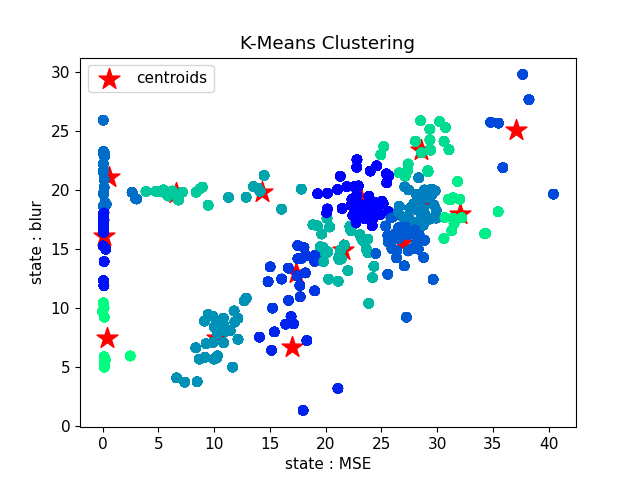
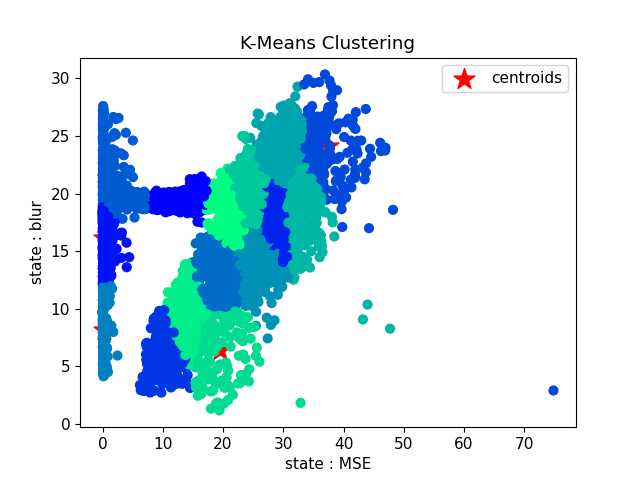
fix : clustering with all frames

diff --git a/enviroment.py b/enviroment.py
@@ -10,7 +10,7 @@ import math
 import numpy as np
 import win32pipe, win32file
 import statistics
-from utils.get_state import cluster_pred, cluster_load, cluster_init
+from utils.get_state import cluster_pred, cluster_load, cluster_init, cluster_train
 from utils.cal_quality import get_FFT, get_MSE
 from utils.cal_F1 import get_F1
 from utils.yolov5.detect import inference
@@ -41,9 +41,9 @@ class FrameEnv():
         self.buffer = ReplayBuffer(replayBuffer_maxlen)
         self.data = collections.deque(maxlen=data_maxlen)
         if masking :
-            self.omnet = Communicator("\\\\.\\pipe\\frame_drop_rl", 200000)
+            self.omnet = Communicator("\\\\.\\pipe\\frame_drop_rl_3", 200000)
         else : 
-            self.omnet = Communicator("\\\\.\\pipe\\frame_drop_rl_2", 200000)
+            self.omnet = Communicator("\\\\.\\pipe\\frame_drop_rl_4", 200000)
         self.videoName = videoName
         self.videoPath = videoPath
         self.resultPath = resultPath
@@ -52,12 +52,29 @@ class FrameEnv():
         self.clusterPath = clusterPath
         self.capIdx = 0
         # hyper-parameter
+        if not self.isRun :
+            self._detect(self.isDetectionexist)
         self.w = w
         self.model = cluster_init(k=stateNum)
         if self.isClusterexist :  
+            print("load cluster model in init...")
             self.model = cluster_load(self.clusterPath)
-        if not self.isRun :
-            self._detect(self.isDetectionexist)
+        else :
+            print("clustering in init...")
+            capTemp = cv2.VideoCapture(self.videoPath)
+            _, f_prev = capTemp.read()
+            idx = 0
+            self.data.append([0, self.FFTList[idx]])
+            while True :
+                idx += 1
+                ret, f_cur = capTemp.read()
+                if not ret :
+                    capTemp.release()
+                    break
+                self.data.append([get_MSE(f_prev, f_cur), self.FFTList[idx]])
+                f_prev = f_cur            
+            self.model = cluster_train(self.model, np.array(self.data), clusterPath=self.clusterPath, videoName=self.videoName, visualize=True)
+            self.isClusterexist = True
         # record
         self.ASum = 0
         self.aSum = 0
@@ -70,13 +87,12 @@ class FrameEnv():
             self.outVideoPath = outVideoPath
             self.out = cv2.VideoWriter(outVideoPath, fourcc, self.fps, (self.frame.shape[1], self.frame.shape[0]))
             
-    def reset(self, isClusterexist=False, showLog=False) :
+    def reset(self, showLog=False) :
         self.reward_sum = 0 # r_dup, r_blur, r_net, r_total
         self.skipTime = 0
         self.ASum = 0
         self.aSum = 0
         self.iList = []
-        self.isClusterexist = isClusterexist
         self.showLog = showLog
         self.cap = cv2.VideoCapture(self.videoPath)
         self.curFrameIdx = 0
@@ -93,9 +109,8 @@ class FrameEnv():
         else :
             self.originState = [0, self.FFTList[self.curFrameIdx]]
         self.state = 0
-        if self.isClusterexist :
-            self.transList = []
-            self.state = cluster_pred(self.originState, self.model)
+        self.transList = []
+        self.state = cluster_pred(self.originState, self.model)
         if self.showLog :   
             self.logList = []
         return self.state
@@ -162,10 +177,9 @@ class FrameEnv():
         self.sendA = self.fps - action
         self.aSum += self.sendA
         self.ASum += self.targetA
-        if self.isClusterexist :
-            self.transList.append(self.fps-self.targetA)
-            self.transList.append(self.state)
-            self.transList.append(action)
+        self.transList.append(self.fps-self.targetA)
+        self.transList.append(self.state)
+        self.transList.append(action)
         self.frameList = [self.frame]
         self.processList = [self.frame]
         self.prevA = self.targetA
@@ -178,15 +192,15 @@ class FrameEnv():
             self.originState = [get_MSE(self.prev_frame, self.frame), get_FFT(self.frame)]
         else :
             self.originState = [get_MSE(self.prev_frame, self.frame), self.FFTList[self.curFrameIdx+self.fps]]
-        if self.isClusterexist :
-            self.state = cluster_pred(self.originState, self.model)
-            self.transList.append(self.state)
-            # reward
-            if not self.isRun :
-                self._get_reward()
-            self.buffer.put(self.transList)
-            # print(self.transList)
-            self.transList = []
+        
+        self.state = cluster_pred(self.originState, self.model)
+        self.transList.append(self.state)
+        # reward
+        if not self.isRun :
+            self._get_reward()
+        self.buffer.put(self.transList)
+        # print(self.transList)
+        self.transList = []
         return False
     
     def _get_FFT_List(self, exist=True):

diff --git a/train.py b/train.py
@@ -42,7 +42,7 @@ def parge_opt(known=False) :
     parser.add_argument("-w", "--window", type=int, default=5, help="importance calculate object detect range")
     parser.add_argument("-s", "--stateNum", type=int, default=15, help="clustering state Number")
     parser.add_argument("-lr", "--lr", type=int, default=0.05, help="setting learning rate")
-    parser.add_argument("-priorC", "--isClusterexist", type=str2bool, default=False, help="using pretrained cluster model?")
+    parser.add_argument("-priorC", "--isClusterexist", type=str2bool, default=True, help="using pretrained cluster model?")
     
     parser.add_argument("-vp", "--videoPath", type=str, default="data/RoadVideo-2.mp4", help="training video path")
     parser.add_argument("-vn", "--videoName", type=str, default="RoadVideo-2", help="setting video name")
@@ -52,7 +52,7 @@ def parge_opt(known=False) :
     
     # require
     parser.add_argument("-qp", "--qTablePath", type=str, default="models/q_table", help="qtable path")
-    parser.add_argument("-cp", "--clusterPath", type=str, default="models/cluster.pkl", help="cluster model path")
+    parser.add_argument("-cp", "--clusterPath", type=str, default="models/cluster_RoadVideo-2.pkl", help="cluster model path")
     parser.add_argument("-b", "--beta", type=float, default=1.35, help="sensitive for number of objects")
     # *****
     parser.add_argument("-m", "--masking", type=str2bool, default=True, help="using masking?")
@@ -85,12 +85,12 @@ def _main(opt):
     for epi in range(episoode_maxlen):       
         print("episode :", epi)
         done = False
-        cluterVisualize = False
+        cluterVisualize = True
         showLog = False
         if epi == 0 or (epi % 50) == 0 or epi == episoode_maxlen-1 :
             cluterVisualize = True
             showLog = True
-        s = envV.reset(isClusterexist=isClusterexist, showLog=showLog)
+        s = envV.reset(showLog=showLog)
         while not done:
             requireSkip = opt.fps - envV.targetA
             a = agentV.get_action(s, requireSkip, randAction)
@@ -118,8 +118,8 @@ def _main(opt):
         if showLog :
             envV.trans_show()
         # after first episode, make cluster model
-        if not isClusterexist :
-            envV.model = cluster_train(envV.model, np.array(envV.data), clusterPath=clusterPath, videoName=videoName, visualize=cluterVisualize)
+        if not isClusterexist and epi == 1:
+            
             isClusterexist = True
         print("buffer size: ", envV.buffer.size())
         envV.omnet.get_omnet_message()
